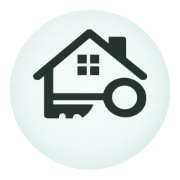
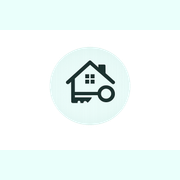
Добавлена поддержка установки CRM как PWA

Changed region(s): [[0.1667, 0.1389, 0.8333, 0.6667], [0.7222, 0.1667, 0.9444, 0.8333], [0.0556, 0.1667, 0.2778, 0.8333]]

diff --git a/public/sw.js b/public/sw.js
@@ -1,9 +1,9 @@
-const CACHE_NAME = 'svoydom-v1';
-const PRECACHE_URLS = ['/', '/manifest.json', '/icon-192.png', '/icon-512.png'];
+const CACHE_NAME = 'svoydom-crm-static-v2';
+const PRECACHE_URLS = ['/manifest.json', '/icon-192.png', '/icon-512.png', '/apple-touch-icon.png'];
 
 self.addEventListener('install', (event) => {
   event.waitUntil(
-    caches.open(CACHE_NAME).then((cache) => cache.addAll(PRECACHE_URLS))
+    caches.open(CACHE_NAME).then((cache) => cache.addAll(PRECACHE_URLS)).catch(() => undefined)
   );
   self.skipWaiting();
 });
@@ -18,21 +18,14 @@ self.addEventListener('activate', (event) => {
 });
 
 self.addEventListener('fetch', (event) => {
-  // Only cache GET requests for same-origin navigation and static assets
   if (event.request.method !== 'GET') return;
+
   const url = new URL(event.request.url);
+  if (url.origin !== self.location.origin) return;
   if (url.pathname.startsWith('/api/') || url.pathname.startsWith('/admin')) return;
 
   event.respondWith(
-    caches.match(event.request).then((cached) => {
-      const network = fetch(event.request).then((response) => {
-        if (response.ok && url.origin === self.location.origin) {
-          caches.open(CACHE_NAME).then((cache) => cache.put(event.request, response.clone()));
-        }
-        return response;
-      });
-      return cached || network;
-    })
+    caches.match(event.request).then((cached) => cached || fetch(event.request))
   );
 });
 

diff --git a/src/app/ServiceWorkerRegistration.jsx b/src/app/ServiceWorkerRegistration.jsx
@@ -1,0 +1,19 @@
+'use client';
+
+import { useEffect } from 'react';
+
+export default function ServiceWorkerRegistration() {
+  useEffect(() => {
+    if (!('serviceWorker' in navigator)) return;
+
+    const { hostname, protocol } = window.location;
+    const isSecureContext = protocol === 'https:' || hostname === 'localhost';
+    if (!isSecureContext) return;
+
+    navigator.serviceWorker.register('/sw.js').catch((error) => {
+      console.warn('Service worker registration failed:', error);
+    });
+  }, []);
+
+  return null;
+}

diff --git a/src/app/layout.jsx b/src/app/layout.jsx
@@ -1,18 +1,23 @@
 import './globals.css';
+import ServiceWorkerRegistration from './ServiceWorkerRegistration';
 
 export const metadata = {
   title: 'СвойДом CRM',
   description: 'Панель управления лидами СвойДом',
-  manifest: '/admin-manifest.json',
+  applicationName: 'СвойДом CRM',
+  manifest: '/manifest.json',
   appleWebApp: {
     capable: true,
-    title: 'CRM',
+    title: 'СвойДом CRM',
     statusBarStyle: 'default',
   },
   icons: {
-    icon: '/icon.png',
-    shortcut: '/icon.png',
-    apple: '/icon.png',
+    icon: [
+      { url: '/icon-192.png', sizes: '192x192', type: 'image/png' },
+      { url: '/icon-512.png', sizes: '512x512', type: 'image/png' },
+    ],
+    shortcut: '/icon-192.png',
+    apple: [{ url: '/apple-touch-icon.png', sizes: '180x180', type: 'image/png' }],
   },
 };
 
@@ -28,6 +33,7 @@ export default function RootLayout({ children }) {
   return (
     <html lang="ru">
       <body>
+        <ServiceWorkerRegistration />
         {children}
       </body>
     </html>

diff --git a/src/app/admin/layout.jsx b/src/app/admin/layout.jsx
@@ -3,16 +3,5 @@ export const metadata = {
 };
 
 export default function AdminLayout({ children }) {
-  return (
-    <>
-      <head>
-        <link rel="manifest" href="/admin-manifest.json" />
-        <meta name="theme-color" content="#0f172a" />
-        <meta name="apple-mobile-web-app-capable" content="yes" />
-        <meta name="apple-mobile-web-app-title" content="CRM" />
-        <link rel="apple-touch-icon" href="/icon.png" />
-      </head>
-      {children}
-    </>
-  );
+  return children;
 }